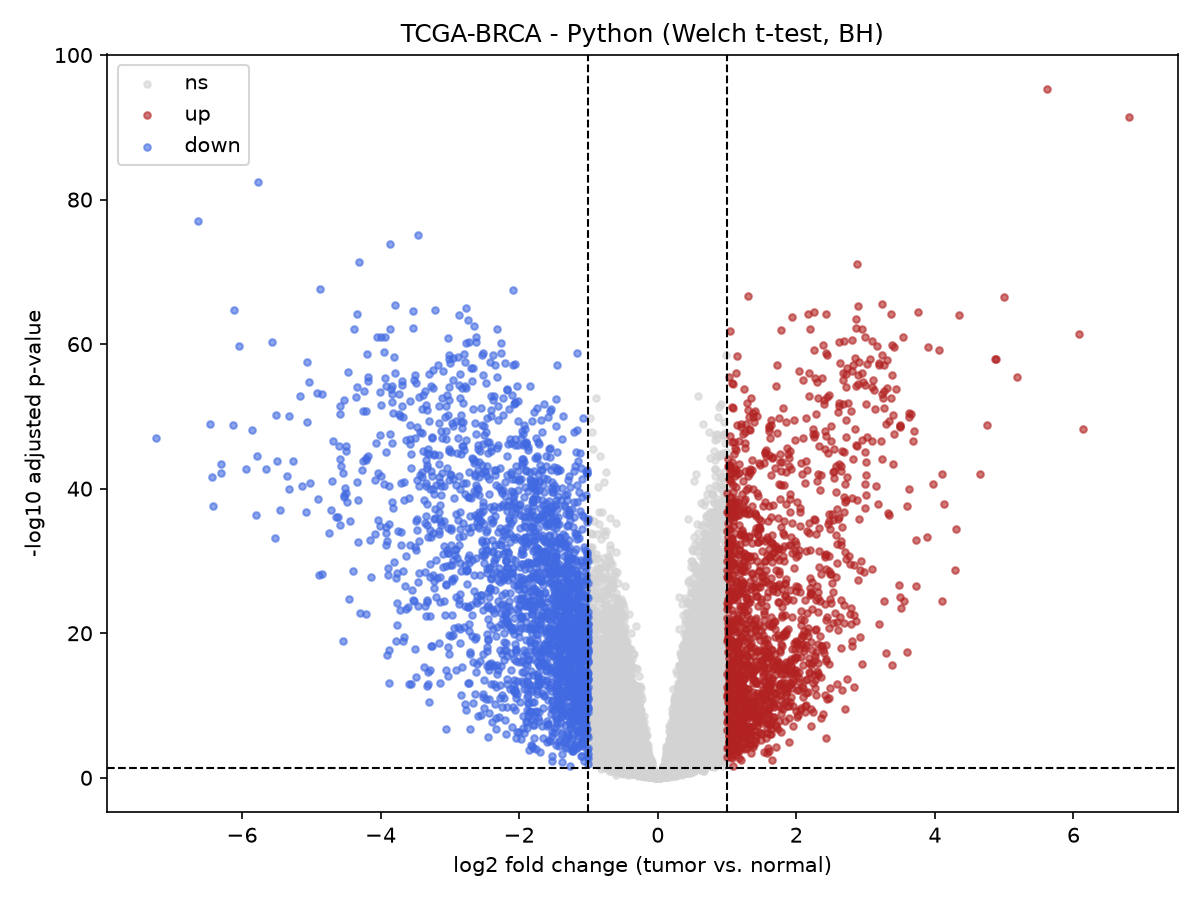
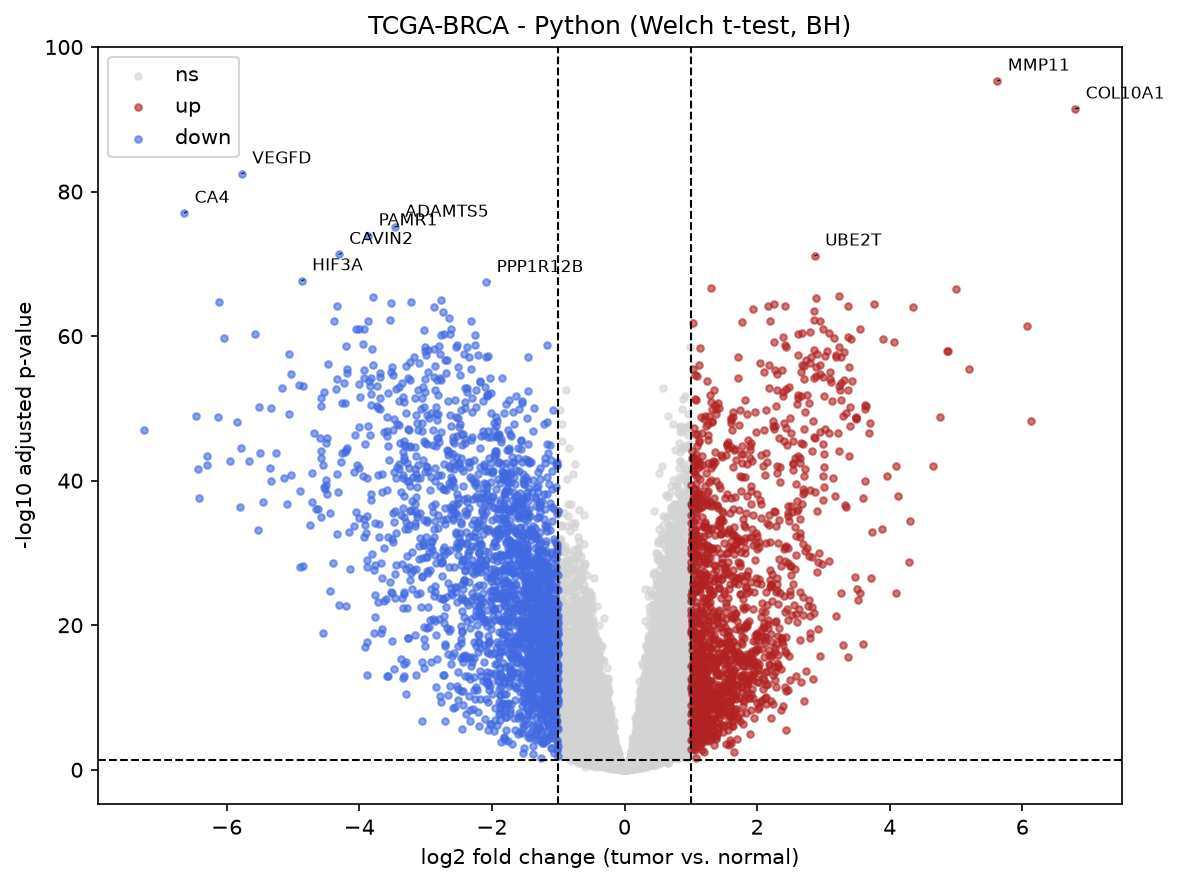
Restore top-gene lavels in Python volcano plots

diff --git a/python/dgea.py b/python/dgea.py
@@ -133,36 +133,109 @@ def analyze_project(project, data_dir=PROCESSED_DIR):
 def save_volcano(results, project):
     """Volcano plot: fold change on x, significance on y, coloured by status."""
     # Drop genes with no usable fold change or p-value.
-    plot_data = results[np.isfinite(results["log2FC"]) & np.isfinite(results["padj"])].copy()
+    plot_data = results[
+        np.isfinite(results["log2FC"]) &
+        np.isfinite(results["padj"])
+    ].copy()
+
     # The floor keeps -log10 finite when a p-value underflows to zero.
     plot_data["neg_log10_padj"] = -np.log10(
         plot_data["padj"].clip(lower=np.finfo(float).tiny)
     )
 
-    # One scatter layer per status so each gets its own colour and legend entry.
-    colors = {"ns": "lightgray", "up": "firebrick", "down": "royalblue"}
+    colors = {
+        "ns": "lightgray",
+        "up": "firebrick",
+        "down": "royalblue"
+    }
+
     fig, ax = plt.subplots(figsize=(8, 6))
+
+    # One scatter layer per status so each gets its own colour and legend entry.
     for status, color in colors.items():
         subset = plot_data[plot_data["status"] == status]
-        ax.scatter(subset["log2FC"], subset["neg_log10_padj"],
-                   color=color, s=10, alpha=0.6, label=status)
+
+        ax.scatter(
+            subset["log2FC"],
+            subset["neg_log10_padj"],
+            color=color,
+            s=10,
+            alpha=0.6,
+            label=status
+        )
 
     # Dashed lines mark the two thresholds.
     for x in (-LOG2FC_THRESHOLD, LOG2FC_THRESHOLD):
-        ax.axvline(x, color="black", linestyle="--", linewidth=1)
-    ax.axhline(-np.log10(FDR_THRESHOLD), color="black", linestyle="--", linewidth=1)
+        ax.axvline(
+            x,
+            color="black",
+            linestyle="--",
+            linewidth=1
+        )
 
-    ax.set_title(f"{project} - Python (Welch t-test, BH)")
-    ax.set_xlabel("log2 fold change (tumor vs. normal)")
-    ax.set_ylabel("-log10 adjusted p-value")
+    ax.axhline(
+        -np.log10(FDR_THRESHOLD),
+        color="black",
+        linestyle="--",
+        linewidth=1
+    )
+
+    # Label the 10 most significant up/down genes (the table is sorted by padj).
+    top_genes = plot_data[
+        plot_data["status"].isin(["up", "down"])
+    ].head(10)
+
+    for _, gene in top_genes.iterrows():
+        # Fall back to the Ensembl ID when a gene has no name.
+        label = gene["gene_name"]
+
+        if pd.isna(label):
+            label = gene["gene_id"]
+
+        ax.annotate(
+            label,
+            xy=(
+                gene["log2FC"],
+                gene["neg_log10_padj"]
+            ),
+            xytext=(5, 5),
+            textcoords="offset points",
+            fontsize=8,
+            arrowprops={
+                "arrowstyle": "-",
+                "linewidth": 0.5
+            }
+        )
+
+    ax.set_title(
+        f"{project} - Python (Welch t-test, BH)"
+    )
+    ax.set_xlabel(
+        "log2 fold change (tumor vs. normal)"
+    )
+    ax.set_ylabel(
+        "-log10 adjusted p-value"
+    )
     ax.legend()
+
     fig.tight_layout()
 
-    FIGURES_DIR.mkdir(parents=True, exist_ok=True)
+    FIGURES_DIR.mkdir(
+        parents=True,
+        exist_ok=True
+    )
+
     path = FIGURES_DIR / f"{project}_volcano_plot.png"
-    fig.savefig(path, dpi=150)
+
+    fig.savefig(
+        path,
+        dpi=150,
+        bbox_inches="tight"
+    )
+
     plt.close(fig)
     show_in_notebook(path)
+
     return path
 
 
